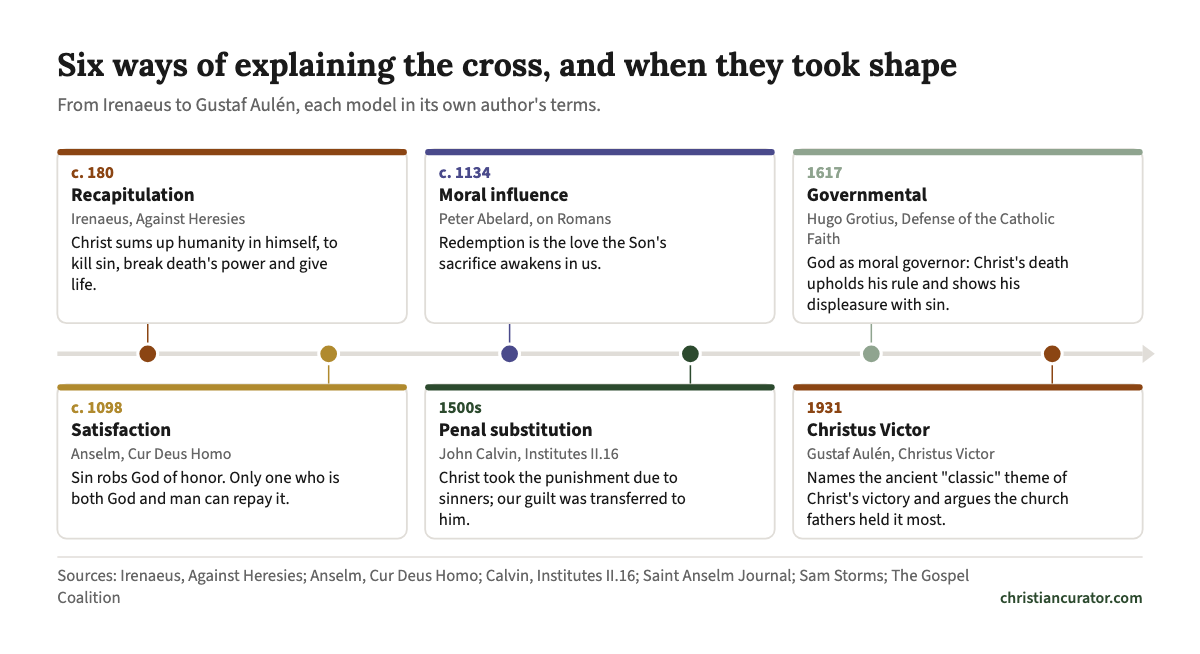
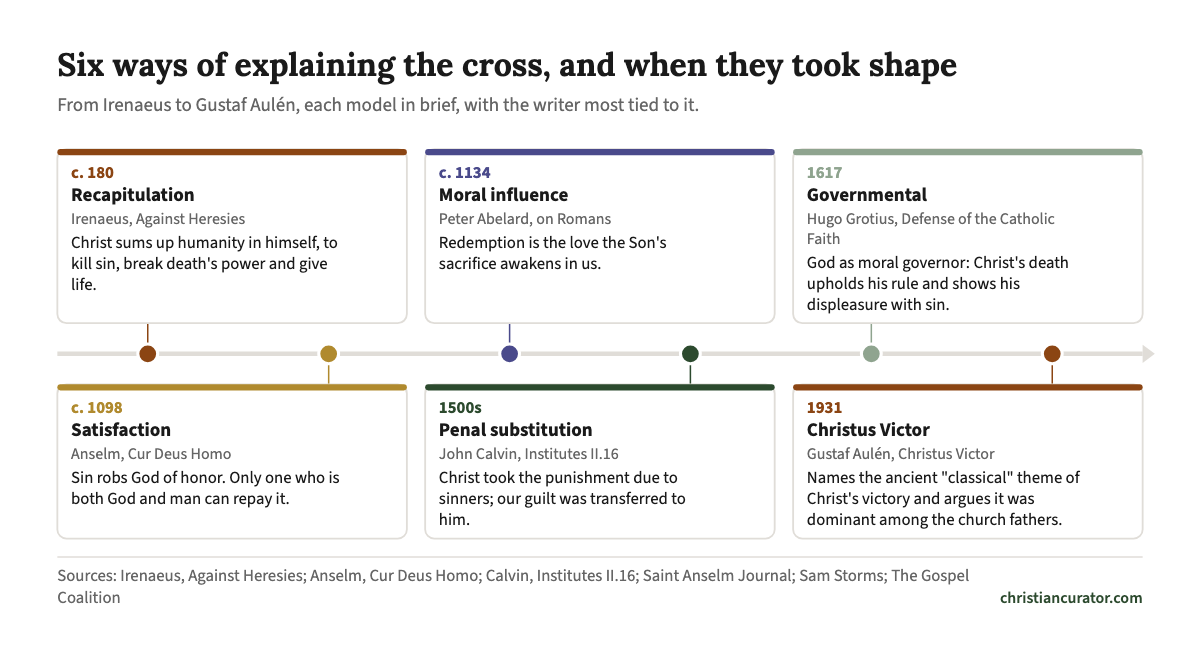
Atonement: match Kolb's wording on Aulén; tighten the span and subtitle
Christus Victor card: Kolb (the cited source) says the "classical" motif
was "dominant among the ancient church fathers"; the card now says so,
instead of "classic" and "held it most". Irenaeus c. 180 to Aulén 1931
is about 1,750 years, so the intro says "nearly 1,800". The share image
subtitle no longer claims every card is in its author's own terms (three
follow secondary summaries). Share image redrawn.

Changed region(s): [[0.6783, 0.7034, 0.8942, 0.8257], [0.3392, 0.1529, 0.5858, 0.1835]]

diff --git a/docs/topics/atonement/index.html b/docs/topics/atonement/index.html
@@ -509,14 +509,14 @@ main.cc-prose { max-width: 740px; margin: 0 auto; padding-top: 1.5rem; }
 <!-- CC-TIMELINE:atonement-models:START -->
 <section class="cc-timeline" id="atonement-models"><style>.cc-timeline{margin:2rem 0;}.cc-timeline-label{font-size:10px;font-weight:700;letter-spacing:0.16em;text-transform:uppercase;color:#8B1A1A;margin-bottom:0.4rem;}.cc-timeline-title{font-family:'Lora',Georgia,serif;font-size:22px;line-height:1.3;color:#1a1a1a;margin-bottom:0.4rem;}.cc-timeline-intro{font-size:15px;line-height:1.6;color:#444;margin-bottom:0.6rem;}.cc-timeline .cc-chart-svg.cc-chart-wide{max-width:740px;}.cc-timeline .cc-chart-svg.cc-chart-narrow{max-width:420px;}.cc-timeline-common{margin:0.8rem 0;padding:0.7rem 0.9rem;background:#eef2ec;border-radius:4px;font-size:14.5px;line-height:1.55;}.cc-timeline-sub{font-size:10px;font-weight:700;letter-spacing:0.14em;text-transform:uppercase;color:#2C4A2E;margin:1rem 0 0.4rem;}.cc-timeline-key ul,.cc-timeline-voices ul{list-style:none;padding:0;margin:0;}.cc-timeline-key li{position:relative;padding:0.3rem 0 0.3rem 1rem;font-size:14.5px;line-height:1.5;}.cc-timeline-key li::before{content:'';position:absolute;left:0;top:0.75rem;width:6px;height:6px;border-radius:50%;background:#8B1A1A;}.cc-timeline-voices li{padding:0.3rem 0;font-size:14px;line-height:1.5;color:#444;}.cc-timeline-swatch{display:inline-block;width:10px;height:10px;border-radius:2px;margin-right:6px;vertical-align:baseline;}.cc-timeline-table th[scope=row]{font-weight:600;}</style>
 <h2 class="cc-timeline-label">A History of the Debate</h2>
-<h3 class="cc-timeline-title">How Christians have explained the cross, century by century</h3><p class="cc-timeline-intro">Today&#x27;s argument over the atonement draws on models that took shape across 1,800 years. Each card gives a model in the words, or close to the words, of the writer most tied to it.</p>
+<h3 class="cc-timeline-title">How Christians have explained the cross, century by century</h3><p class="cc-timeline-intro">Today&#x27;s argument over the atonement draws on models that took shape over nearly 1,800 years. Each card gives a model in the words, or close to the words, of the writer most tied to it.</p>
 <figure class="cc-chart cc-timeline-fig">
-<svg class="cc-chart-svg cc-timeline-svg cc-chart-wide" viewBox="0 0 740 382" role="img" aria-labelledby="atonement-models-t atonement-models-d" font-family="'Source Sans 3', sans-serif"><title id="atonement-models-t">Six ways of explaining the cross, and when they took shape</title><desc id="atonement-models-d">In date order. 1. c. 180: Recapitulation, Irenaeus, Against Heresies. Christ sums up humanity in himself, to kill sin, break death&#x27;s power and give life. 2. c. 1098: Satisfaction, Anselm, Cur Deus Homo. Sin robs God of honor. Only one who is both God and man can repay it. 3. c. 1134: Moral influence, Peter Abelard, on Romans. Redemption is the love the Son&#x27;s sacrifice awakens in us. 4. 1500s: Penal substitution, John Calvin, Institutes II.16. Christ took the punishment due to sinners; our guilt was transferred to him. 5. 1617: Governmental, Hugo Grotius, Defense of the Catholic Faith. God as moral governor: Christ&#x27;s death upholds his rule and shows his displeasure with sin. 6. 1931: Christus Victor, Gustaf Aulén, Christus Victor. Names the ancient &quot;classic&quot; theme of Christ&#x27;s victory and argues the church fathers held it most.</desc><rect width="740" height="382" fill="#fff"/><text x="14.0" y="26.0" font-size="21" fill="#1a1a1a" font-weight="700" font-family="'Lora', Georgia, serif">Six ways of explaining the cross, and when they took shape</text><text x="14.0" y="49.2" font-size="12.5" fill="#666">From Irenaeus to Gustaf Aulén, each model in its own author&#x27;s terms.</text><line x1="14.0" x2="726.0" y1="208.5" y2="208.5" stroke="#e0ddd8" stroke-width="3"/><path d="M726.0,202.5 L734.0,208.5 L726.0,214.5 Z" fill="#e0ddd8"/><line x1="73.3" x2="73.3" y1="188.5" y2="208.5" stroke="#8B4513"/><rect x="14.0" y="74.2" width="229.3" height="114.2" rx="6" fill="#fff" stroke="#e0ddd8" stroke-width="1.2"/><rect x="14.0" y="74.2" width="229.3" height="4" rx="2" fill="#8B4513"/><text x="23.0" y="93.2" font-size="11" fill="#8B4513" font-weight="700">c. 180</text><text x="23.0" y="108.2" font-size="12.5" fill="#1a1a1a" font-weight="700">Recapitulation</text><text x="23.0" y="123.2" font-size="10.5" fill="#666">Irenaeus, Against Heresies</text><text x="23.0" y="139.2" font-size="11" fill="#1a1a1a">Christ sums up humanity in himself, to</text><text x="23.0" y="153.0" font-size="11" fill="#1a1a1a">kill sin, break death&#x27;s power and give</text><text x="23.0" y="166.8" font-size="11" fill="#1a1a1a">life.</text><circle cx="73.3" cy="208.5" r="6.5" fill="#8B4513" stroke="#fff" stroke-width="2"/><line x1="192.0" x2="192.0" y1="208.5" y2="228.5" stroke="#b08a2e"/><rect x="14.0" y="228.5" width="229.3" height="101.2" rx="6" fill="#fff" stroke="#e0ddd8" stroke-width="1.2"/><rect x="14.0" y="228.5" width="229.3" height="4" rx="2" fill="#b08a2e"/><text x="23.0" y="247.5" font-size="11" fill="#b08a2e" font-weight="700">c. 1098</text><text x="23.0" y="262.5" font-size="12.5" fill="#1a1a1a" font-weight="700">Satisfaction</text><text x="23.0" y="277.5" font-size="10.5" fill="#666">Anselm, Cur Deus Homo</text><text x="23.0" y="293.5" font-size="11" fill="#1a1a1a">Sin robs God of honor. Only one who is</text><text x="23.0" y="307.2" font-size="11" fill="#1a1a1a">both God and man can repay it.</text><circle cx="192.0" cy="208.5" r="6.5" fill="#b08a2e" stroke="#fff" stroke-width="2"/><line x1="310.7" x2="310.7" y1="188.5" y2="208.5" stroke="#4A4A8B"/><rect x="255.3" y="74.2" width="229.3" height="114.2" rx="6" fill="#fff" stroke="#e0ddd8" stroke-width="1.2"/><rect x="255.3" y="74.2" width="229.3" height="4" rx="2" fill="#4A4A8B"/><text x="264.3" y="93.2" font-size="11" fill="#4A4A8B" font-weight="700">c. 1134</text><text x="264.3" y="108.2" font-size="12.5" fill="#1a1a1a" font-weight="700">Moral influence</text><text x="264.3" y="123.2" font-size="10.5" fill="#666">Peter Abelard, on Romans</text><text x="264.3" y="139.2" font-size="11" fill="#1a1a1a">Redemption is the love the Son&#x27;s</text><text x="264.3" y="153.0" font-size="11" fill="#1a1a1a">sacrifice awakens in us.</text><circle cx="310.7" cy="208.5" r="6.5" fill="#4A4A8B" stroke="#fff" stroke-width="2"/><line x1="429.3" x2="429.3" y1="208.5" y2="228.5" stroke="#2C4A2E"/><rect x="255.3" y="228.5" width="229.3" height="101.2" rx="6" fill="#fff" stroke="#e0ddd8" stroke-width="1.2"/><rect x="255.3" y="228.5" width="229.3" height="4" rx="2" fill="#2C4A2E"/><text x="264.3" y="247.5" font-size="11" fill="#2C4A2E" font-weight="700">1500s</text><text x="264.3" y="262.5" font-size="12.5" fill="#1a1a1a" font-weight="700">Penal substitution</text><text x="264.3" y="277.5" font-size="10.5" fill="#666">John Calvin, Institutes II.16</text><text x="264.3" y="293.5" font-size="11" fill="#1a1a1a">Christ took the punishment due to</text><text x="264.3" y="307.2" font-size="11" fill="#1a1a1a">sinners; our guilt was transferred to</text><text x="264.3" y="321.0" font-size="11" fill="#1a1a1a">him.</text><circle cx="429.3" cy="208.5" r="6.5" fill="#2C4A2E" stroke="#fff" stroke-width="2"/><line x1="548.0" x2="548.0" y1="188.5" y2="208.5" stroke="#8fa48f"/><rect x="496.7" y="74.2" width="229.3" height="114.2" rx="6" fill="#fff" stroke="#e0ddd8" stroke-width="1.2"/><rect x="496.7" y="74.2" width="229.3" height="4" rx="2" fill="#8fa48f"/><text x="505.7" y="93.2" font-size="11" fill="#8fa48f" font-weight="700">1617</text><text x="505.7" y="108.2" font-size="12.5" fill="#1a1a1a" font-weight="700">Governmental</text><text x="505.7" y="123.2" font-size="10.5" fill="#666">Hugo Grotius, Defense of the Catholic</text><text x="505.7" y="136.2" font-size="10.5" fill="#666">Faith</text><text x="505.7" y="152.2" font-size="11" fill="#1a1a1a">God as moral governor: Christ&#x27;s death</text><text x="505.7" y="166.0" font-size="11" fill="#1a1a1a">upholds his rule and shows his</text><text x="505.7" y="179.8" font-size="11" fill="#1a1a1a">displeasure with sin.</text><circle cx="548.0" cy="208.5" r="6.5" fill="#8fa48f" stroke="#fff" stroke-width="2"/><line x1="666.7" x2="666.7" y1="208.5" y2="228.5" stroke="#8B4513"/><rect x="496.7" y="228.5" width="229.3" height="101.2" rx="6" fill="#fff" stroke="#e0ddd8" stroke-width="1.2"/><rect x="496.7" y="228.5" width="229.3" height="4" rx="2" fill="#8B4513"/><text x="505.7" y="247.5" font-size="11" fill="#8B4513" font-weight="700">1931</text><text x="505.7" y="262.5" font-size="12.5" fill="#1a1a1a" font-weight="700">Christus Victor</text><text x="505.7" y="277.5" font-size="10.5" fill="#666">Gustaf Aulén, Christus Victor</text><text x="505.7" y="293.5" font-size="11" fill="#1a1a1a">Names the ancient &quot;classic&quot; theme of</text><text x="505.7" y="307.2" font-size="11" fill="#1a1a1a">Christ&#x27;s victory and argues the church</text><text x="505.7" y="321.0" font-size="11" fill="#1a1a1a">fathers held it most.</text><circle cx="666.7" cy="208.5" r="6.5" fill="#8B4513" stroke="#fff" stroke-width="2"/><line x1="14" x2="726" y1="341.8" y2="341.8" stroke="#e0ddd8"/><text x="14.0" y="357.8" font-size="11" fill="#666">Sources: Irenaeus, Against Heresies; Anselm, Cur Deus Homo; Calvin, Institutes II.16; Saint Anselm Journal; Sam Storms; The Gospel</text><text x="14.0" y="371.8" font-size="11" fill="#666">Coalition</text><text x="726.0" y="371.8" font-size="10.5" fill="#2C4A2E" font-weight="600" text-anchor="end">christiancurator.com</text></svg>
-<svg class="cc-chart-svg cc-timeline-svg cc-chart-narrow" viewBox="0 0 360 750" role="img" aria-labelledby="atonement-models-n-t atonement-models-n-d" font-family="'Source Sans 3', sans-serif"><title id="atonement-models-n-t">Six ways of explaining the cross, and when they took shape</title><desc id="atonement-models-n-d">In date order. 1. c. 180: Recapitulation, Irenaeus, Against Heresies. Christ sums up humanity in himself, to kill sin, break death&#x27;s power and give life. 2. c. 1098: Satisfaction, Anselm, Cur Deus Homo. Sin robs God of honor. Only one who is both God and man can repay it. 3. c. 1134: Moral influence, Peter Abelard, on Romans. Redemption is the love the Son&#x27;s sacrifice awakens in us. 4. 1500s: Penal substitution, John Calvin, Institutes II.16. Christ took the punishment due to sinners; our guilt was transferred to him. 5. 1617: Governmental, Hugo Grotius, Defense of the Catholic Faith. God as moral governor: Christ&#x27;s death upholds his rule and shows his displeasure with sin. 6. 1931: Christus Victor, Gustaf Aulén, Christus Victor. Names the ancient &quot;classic&quot; theme of Christ&#x27;s victory and argues the church fathers held it most.</desc><rect width="360" height="750" fill="#fff"/><text x="14.0" y="26.0" font-size="19" fill="#1a1a1a" font-weight="700" font-family="'Lora', Georgia, serif">Six ways of explaining the cross,</text><text x="14.0" y="49.8" font-size="19" fill="#1a1a1a" font-weight="700" font-family="'Lora', Georgia, serif">and when they took shape</text><text x="14.0" y="70.5" font-size="12.5" fill="#666">Each model in its own author&#x27;s terms.</text><line x1="22.0" x2="22.0" y1="105.5" y2="646.8" stroke="#e0ddd8" stroke-width="3"/><line x1="22.0" x2="38.0" y1="114.5" y2="114.5" stroke="#8B4513"/><circle cx="22.0" cy="114.5" r="6.5" fill="#8B4513" stroke="#fff" stroke-width="2"/><rect x="38.0" y="95.5" width="308.0" height="87.5" rx="6" fill="#fff" stroke="#e0ddd8" stroke-width="1.2"/><rect x="38.0" y="95.5" width="308.0" height="4" rx="2" fill="#8B4513"/><text x="47.0" y="114.5" font-size="11" fill="#8B4513" font-weight="700">c. 180</text><text x="47.0" y="129.5" font-size="12.5" fill="#1a1a1a" font-weight="700">Recapitulation</text><text x="47.0" y="144.5" font-size="10.5" fill="#666">Irenaeus, Against Heresies</text><text x="47.0" y="160.5" font-size="11" fill="#1a1a1a">Christ sums up humanity in himself, to undo sin and</text><text x="47.0" y="174.2" font-size="11" fill="#1a1a1a">death.</text><line x1="22.0" x2="38.0" y1="212.0" y2="212.0" stroke="#b08a2e"/><circle cx="22.0" cy="212.0" r="6.5" fill="#b08a2e" stroke="#fff" stroke-width="2"/><rect x="38.0" y="193.0" width="308.0" height="87.5" rx="6" fill="#fff" stroke="#e0ddd8" stroke-width="1.2"/><rect x="38.0" y="193.0" width="308.0" height="4" rx="2" fill="#b08a2e"/><text x="47.0" y="212.0" font-size="11" fill="#b08a2e" font-weight="700">c. 1098</text><text x="47.0" y="227.0" font-size="12.5" fill="#1a1a1a" font-weight="700">Satisfaction</text><text x="47.0" y="242.0" font-size="10.5" fill="#666">Anselm, Cur Deus Homo</text><text x="47.0" y="258.0" font-size="11" fill="#1a1a1a">Sin robs God of honor. Only one who is both God and</text><text x="47.0" y="271.8" font-size="11" fill="#1a1a1a">man can repay it.</text><line x1="22.0" x2="38.0" y1="309.5" y2="309.5" stroke="#4A4A8B"/><circle cx="22.0" cy="309.5" r="6.5" fill="#4A4A8B" stroke="#fff" stroke-width="2"/><rect x="38.0" y="290.5" width="308.0" height="87.5" rx="6" fill="#fff" stroke="#e0ddd8" stroke-width="1.2"/><rect x="38.0" y="290.5" width="308.0" height="4" rx="2" fill="#4A4A8B"/><text x="47.0" y="309.5" font-size="11" fill="#4A4A8B" font-weight="700">c. 1134</text><text x="47.0" y="324.5" font-size="12.5" fill="#1a1a1a" font-weight="700">Moral influence</text><text x="47.0" y="339.5" font-size="10.5" fill="#666">Peter Abelard, on Romans</text><text x="47.0" y="355.5" font-size="11" fill="#1a1a1a">Redemption is the love the Son&#x27;s sacrifice awakens in</text><text x="47.0" y="369.2" font-size="11" fill="#1a1a1a">us.</text><line x1="22.0" x2="38.0" y1="407.0" y2="407.0" stroke="#2C4A2E"/><circle cx="22.0" cy="407.0" r="6.5" fill="#2C4A2E" stroke="#fff" stroke-width="2"/><rect x="38.0" y="388.0" width="308.0" height="87.5" rx="6" fill="#fff" stroke="#e0ddd8" stroke-width="1.2"/><rect x="38.0" y="388.0" width="308.0" height="4" rx="2" fill="#2C4A2E"/><text x="47.0" y="407.0" font-size="11" fill="#2C4A2E" font-weight="700">1500s</text><text x="47.0" y="422.0" font-size="12.5" fill="#1a1a1a" font-weight="700">Penal substitution</text><text x="47.0" y="437.0" font-size="10.5" fill="#666">John Calvin, Institutes II.16</text><text x="47.0" y="453.0" font-size="11" fill="#1a1a1a">Christ took the punishment due to sinners; our guilt</text><text x="47.0" y="466.8" font-size="11" fill="#1a1a1a">was transferred to him.</text><line x1="22.0" x2="38.0" y1="504.5" y2="504.5" stroke="#8fa48f"/><circle cx="22.0" cy="504.5" r="6.5" fill="#8fa48f" stroke="#fff" stroke-width="2"/><rect x="38.0" y="485.5" width="308.0" height="73.8" rx="6" fill="#fff" stroke="#e0ddd8" stroke-width="1.2"/><rect x="38.0" y="485.5" width="308.0" height="4" rx="2" fill="#8fa48f"/><text x="47.0" y="504.5" font-size="11" fill="#8fa48f" font-weight="700">1617</text><text x="47.0" y="519.5" font-size="12.5" fill="#1a1a1a" font-weight="700">Governmental</text><text x="47.0" y="534.5" font-size="10.5" fill="#666">Hugo Grotius, Defense of the Catholic Faith</text><text x="47.0" y="550.5" font-size="11" fill="#1a1a1a">Christ&#x27;s death upholds God&#x27;s moral government.</text><line x1="22.0" x2="38.0" y1="588.2" y2="588.2" stroke="#8B4513"/><circle cx="22.0" cy="588.2" r="6.5" fill="#8B4513" stroke="#fff" stroke-width="2"/><rect x="38.0" y="569.2" width="308.0" height="87.5" rx="6" fill="#fff" stroke="#e0ddd8" stroke-width="1.2"/><rect x="38.0" y="569.2" width="308.0" height="4" rx="2" fill="#8B4513"/><text x="47.0" y="588.2" font-size="11" fill="#8B4513" font-weight="700">1931</text><text x="47.0" y="603.2" font-size="12.5" fill="#1a1a1a" font-weight="700">Christus Victor</text><text x="47.0" y="618.2" font-size="10.5" fill="#666">Gustaf Aulén, Christus Victor</text><text x="47.0" y="634.2" font-size="11" fill="#1a1a1a">Revives the fathers&#x27; &quot;classic&quot; theme of Christ&#x27;s</text><text x="47.0" y="648.0" font-size="11" fill="#1a1a1a">victory.</text><line x1="14" x2="346" y1="678.8" y2="678.8" stroke="#e0ddd8"/><text x="14.0" y="694.8" font-size="11" fill="#666">Sources: Irenaeus, Against Heresies; Anselm, Cur Deus Homo;</text><text x="14.0" y="708.8" font-size="11" fill="#666">Calvin, Institutes II.16; Saint Anselm Journal; Sam Storms;</text><text x="14.0" y="722.8" font-size="11" fill="#666">The Gospel Coalition</text><text x="346.0" y="739.8" font-size="10.5" fill="#2C4A2E" font-weight="600" text-anchor="end">christiancurator.com</text></svg>
+<svg class="cc-chart-svg cc-timeline-svg cc-chart-wide" viewBox="0 0 740 382" role="img" aria-labelledby="atonement-models-t atonement-models-d" font-family="'Source Sans 3', sans-serif"><title id="atonement-models-t">Six ways of explaining the cross, and when they took shape</title><desc id="atonement-models-d">In date order. 1. c. 180: Recapitulation, Irenaeus, Against Heresies. Christ sums up humanity in himself, to kill sin, break death&#x27;s power and give life. 2. c. 1098: Satisfaction, Anselm, Cur Deus Homo. Sin robs God of honor. Only one who is both God and man can repay it. 3. c. 1134: Moral influence, Peter Abelard, on Romans. Redemption is the love the Son&#x27;s sacrifice awakens in us. 4. 1500s: Penal substitution, John Calvin, Institutes II.16. Christ took the punishment due to sinners; our guilt was transferred to him. 5. 1617: Governmental, Hugo Grotius, Defense of the Catholic Faith. God as moral governor: Christ&#x27;s death upholds his rule and shows his displeasure with sin. 6. 1931: Christus Victor, Gustaf Aulén, Christus Victor. Names the ancient &quot;classical&quot; theme of Christ&#x27;s victory and argues it was dominant among the church fathers.</desc><rect width="740" height="382" fill="#fff"/><text x="14.0" y="26.0" font-size="21" fill="#1a1a1a" font-weight="700" font-family="'Lora', Georgia, serif">Six ways of explaining the cross, and when they took shape</text><text x="14.0" y="49.2" font-size="12.5" fill="#666">From Irenaeus to Gustaf Aulén, each model in brief, with the writer most tied to it.</text><line x1="14.0" x2="726.0" y1="208.5" y2="208.5" stroke="#e0ddd8" stroke-width="3"/><path d="M726.0,202.5 L734.0,208.5 L726.0,214.5 Z" fill="#e0ddd8"/><line x1="73.3" x2="73.3" y1="188.5" y2="208.5" stroke="#8B4513"/><rect x="14.0" y="74.2" width="229.3" height="114.2" rx="6" fill="#fff" stroke="#e0ddd8" stroke-width="1.2"/><rect x="14.0" y="74.2" width="229.3" height="4" rx="2" fill="#8B4513"/><text x="23.0" y="93.2" font-size="11" fill="#8B4513" font-weight="700">c. 180</text><text x="23.0" y="108.2" font-size="12.5" fill="#1a1a1a" font-weight="700">Recapitulation</text><text x="23.0" y="123.2" font-size="10.5" fill="#666">Irenaeus, Against Heresies</text><text x="23.0" y="139.2" font-size="11" fill="#1a1a1a">Christ sums up humanity in himself, to</text><text x="23.0" y="153.0" font-size="11" fill="#1a1a1a">kill sin, break death&#x27;s power and give</text><text x="23.0" y="166.8" font-size="11" fill="#1a1a1a">life.</text><circle cx="73.3" cy="208.5" r="6.5" fill="#8B4513" stroke="#fff" stroke-width="2"/><line x1="192.0" x2="192.0" y1="208.5" y2="228.5" stroke="#b08a2e"/><rect x="14.0" y="228.5" width="229.3" height="101.2" rx="6" fill="#fff" stroke="#e0ddd8" stroke-width="1.2"/><rect x="14.0" y="228.5" width="229.3" height="4" rx="2" fill="#b08a2e"/><text x="23.0" y="247.5" font-size="11" fill="#b08a2e" font-weight="700">c. 1098</text><text x="23.0" y="262.5" font-size="12.5" fill="#1a1a1a" font-weight="700">Satisfaction</text><text x="23.0" y="277.5" font-size="10.5" fill="#666">Anselm, Cur Deus Homo</text><text x="23.0" y="293.5" font-size="11" fill="#1a1a1a">Sin robs God of honor. Only one who is</text><text x="23.0" y="307.2" font-size="11" fill="#1a1a1a">both God and man can repay it.</text><circle cx="192.0" cy="208.5" r="6.5" fill="#b08a2e" stroke="#fff" stroke-width="2"/><line x1="310.7" x2="310.7" y1="188.5" y2="208.5" stroke="#4A4A8B"/><rect x="255.3" y="74.2" width="229.3" height="114.2" rx="6" fill="#fff" stroke="#e0ddd8" stroke-width="1.2"/><rect x="255.3" y="74.2" width="229.3" height="4" rx="2" fill="#4A4A8B"/><text x="264.3" y="93.2" font-size="11" fill="#4A4A8B" font-weight="700">c. 1134</text><text x="264.3" y="108.2" font-size="12.5" fill="#1a1a1a" font-weight="700">Moral influence</text><text x="264.3" y="123.2" font-size="10.5" fill="#666">Peter Abelard, on Romans</text><text x="264.3" y="139.2" font-size="11" fill="#1a1a1a">Redemption is the love the Son&#x27;s</text><text x="264.3" y="153.0" font-size="11" fill="#1a1a1a">sacrifice awakens in us.</text><circle cx="310.7" cy="208.5" r="6.5" fill="#4A4A8B" stroke="#fff" stroke-width="2"/><line x1="429.3" x2="429.3" y1="208.5" y2="228.5" stroke="#2C4A2E"/><rect x="255.3" y="228.5" width="229.3" height="101.2" rx="6" fill="#fff" stroke="#e0ddd8" stroke-width="1.2"/><rect x="255.3" y="228.5" width="229.3" height="4" rx="2" fill="#2C4A2E"/><text x="264.3" y="247.5" font-size="11" fill="#2C4A2E" font-weight="700">1500s</text><text x="264.3" y="262.5" font-size="12.5" fill="#1a1a1a" font-weight="700">Penal substitution</text><text x="264.3" y="277.5" font-size="10.5" fill="#666">John Calvin, Institutes II.16</text><text x="264.3" y="293.5" font-size="11" fill="#1a1a1a">Christ took the punishment due to</text><text x="264.3" y="307.2" font-size="11" fill="#1a1a1a">sinners; our guilt was transferred to</text><text x="264.3" y="321.0" font-size="11" fill="#1a1a1a">him.</text><circle cx="429.3" cy="208.5" r="6.5" fill="#2C4A2E" stroke="#fff" stroke-width="2"/><line x1="548.0" x2="548.0" y1="188.5" y2="208.5" stroke="#8fa48f"/><rect x="496.7" y="74.2" width="229.3" height="114.2" rx="6" fill="#fff" stroke="#e0ddd8" stroke-width="1.2"/><rect x="496.7" y="74.2" width="229.3" height="4" rx="2" fill="#8fa48f"/><text x="505.7" y="93.2" font-size="11" fill="#8fa48f" font-weight="700">1617</text><text x="505.7" y="108.2" font-size="12.5" fill="#1a1a1a" font-weight="700">Governmental</text><text x="505.7" y="123.2" font-size="10.5" fill="#666">Hugo Grotius, Defense of the Catholic</text><text x="505.7" y="136.2" font-size="10.5" fill="#666">Faith</text><text x="505.7" y="152.2" font-size="11" fill="#1a1a1a">God as moral governor: Christ&#x27;s death</text><text x="505.7" y="166.0" font-size="11" fill="#1a1a1a">upholds his rule and shows his</text><text x="505.7" y="179.8" font-size="11" fill="#1a1a1a">displeasure with sin.</text><circle cx="548.0" cy="208.5" r="6.5" fill="#8fa48f" stroke="#fff" stroke-width="2"/><line x1="666.7" x2="666.7" y1="208.5" y2="228.5" stroke="#8B4513"/><rect x="496.7" y="228.5" width="229.3" height="101.2" rx="6" fill="#fff" stroke="#e0ddd8" stroke-width="1.2"/><rect x="496.7" y="228.5" width="229.3" height="4" rx="2" fill="#8B4513"/><text x="505.7" y="247.5" font-size="11" fill="#8B4513" font-weight="700">1931</text><text x="505.7" y="262.5" font-size="12.5" fill="#1a1a1a" font-weight="700">Christus Victor</text><text x="505.7" y="277.5" font-size="10.5" fill="#666">Gustaf Aulén, Christus Victor</text><text x="505.7" y="293.5" font-size="11" fill="#1a1a1a">Names the ancient &quot;classical&quot; theme of</text><text x="505.7" y="307.2" font-size="11" fill="#1a1a1a">Christ&#x27;s victory and argues it was</text><text x="505.7" y="321.0" font-size="11" fill="#1a1a1a">dominant among the church fathers.</text><circle cx="666.7" cy="208.5" r="6.5" fill="#8B4513" stroke="#fff" stroke-width="2"/><line x1="14" x2="726" y1="341.8" y2="341.8" stroke="#e0ddd8"/><text x="14.0" y="357.8" font-size="11" fill="#666">Sources: Irenaeus, Against Heresies; Anselm, Cur Deus Homo; Calvin, Institutes II.16; Saint Anselm Journal; Sam Storms; The Gospel</text><text x="14.0" y="371.8" font-size="11" fill="#666">Coalition</text><text x="726.0" y="371.8" font-size="10.5" fill="#2C4A2E" font-weight="600" text-anchor="end">christiancurator.com</text></svg>
+<svg class="cc-chart-svg cc-timeline-svg cc-chart-narrow" viewBox="0 0 360 750" role="img" aria-labelledby="atonement-models-n-t atonement-models-n-d" font-family="'Source Sans 3', sans-serif"><title id="atonement-models-n-t">Six ways of explaining the cross, and when they took shape</title><desc id="atonement-models-n-d">In date order. 1. c. 180: Recapitulation, Irenaeus, Against Heresies. Christ sums up humanity in himself, to kill sin, break death&#x27;s power and give life. 2. c. 1098: Satisfaction, Anselm, Cur Deus Homo. Sin robs God of honor. Only one who is both God and man can repay it. 3. c. 1134: Moral influence, Peter Abelard, on Romans. Redemption is the love the Son&#x27;s sacrifice awakens in us. 4. 1500s: Penal substitution, John Calvin, Institutes II.16. Christ took the punishment due to sinners; our guilt was transferred to him. 5. 1617: Governmental, Hugo Grotius, Defense of the Catholic Faith. God as moral governor: Christ&#x27;s death upholds his rule and shows his displeasure with sin. 6. 1931: Christus Victor, Gustaf Aulén, Christus Victor. Names the ancient &quot;classical&quot; theme of Christ&#x27;s victory and argues it was dominant among the church fathers.</desc><rect width="360" height="750" fill="#fff"/><text x="14.0" y="26.0" font-size="19" fill="#1a1a1a" font-weight="700" font-family="'Lora', Georgia, serif">Six ways of explaining the cross,</text><text x="14.0" y="49.8" font-size="19" fill="#1a1a1a" font-weight="700" font-family="'Lora', Georgia, serif">and when they took shape</text><text x="14.0" y="70.5" font-size="12.5" fill="#666">Each model in brief.</text><line x1="22.0" x2="22.0" y1="105.5" y2="646.8" stroke="#e0ddd8" stroke-width="3"/><line x1="22.0" x2="38.0" y1="114.5" y2="114.5" stroke="#8B4513"/><circle cx="22.0" cy="114.5" r="6.5" fill="#8B4513" stroke="#fff" stroke-width="2"/><rect x="38.0" y="95.5" width="308.0" height="87.5" rx="6" fill="#fff" stroke="#e0ddd8" stroke-width="1.2"/><rect x="38.0" y="95.5" width="308.0" height="4" rx="2" fill="#8B4513"/><text x="47.0" y="114.5" font-size="11" fill="#8B4513" font-weight="700">c. 180</text><text x="47.0" y="129.5" font-size="12.5" fill="#1a1a1a" font-weight="700">Recapitulation</text><text x="47.0" y="144.5" font-size="10.5" fill="#666">Irenaeus, Against Heresies</text><text x="47.0" y="160.5" font-size="11" fill="#1a1a1a">Christ sums up humanity in himself, to undo sin and</text><text x="47.0" y="174.2" font-size="11" fill="#1a1a1a">death.</text><line x1="22.0" x2="38.0" y1="212.0" y2="212.0" stroke="#b08a2e"/><circle cx="22.0" cy="212.0" r="6.5" fill="#b08a2e" stroke="#fff" stroke-width="2"/><rect x="38.0" y="193.0" width="308.0" height="87.5" rx="6" fill="#fff" stroke="#e0ddd8" stroke-width="1.2"/><rect x="38.0" y="193.0" width="308.0" height="4" rx="2" fill="#b08a2e"/><text x="47.0" y="212.0" font-size="11" fill="#b08a2e" font-weight="700">c. 1098</text><text x="47.0" y="227.0" font-size="12.5" fill="#1a1a1a" font-weight="700">Satisfaction</text><text x="47.0" y="242.0" font-size="10.5" fill="#666">Anselm, Cur Deus Homo</text><text x="47.0" y="258.0" font-size="11" fill="#1a1a1a">Sin robs God of honor. Only one who is both God and</text><text x="47.0" y="271.8" font-size="11" fill="#1a1a1a">man can repay it.</text><line x1="22.0" x2="38.0" y1="309.5" y2="309.5" stroke="#4A4A8B"/><circle cx="22.0" cy="309.5" r="6.5" fill="#4A4A8B" stroke="#fff" stroke-width="2"/><rect x="38.0" y="290.5" width="308.0" height="87.5" rx="6" fill="#fff" stroke="#e0ddd8" stroke-width="1.2"/><rect x="38.0" y="290.5" width="308.0" height="4" rx="2" fill="#4A4A8B"/><text x="47.0" y="309.5" font-size="11" fill="#4A4A8B" font-weight="700">c. 1134</text><text x="47.0" y="324.5" font-size="12.5" fill="#1a1a1a" font-weight="700">Moral influence</text><text x="47.0" y="339.5" font-size="10.5" fill="#666">Peter Abelard, on Romans</text><text x="47.0" y="355.5" font-size="11" fill="#1a1a1a">Redemption is the love the Son&#x27;s sacrifice awakens in</text><text x="47.0" y="369.2" font-size="11" fill="#1a1a1a">us.</text><line x1="22.0" x2="38.0" y1="407.0" y2="407.0" stroke="#2C4A2E"/><circle cx="22.0" cy="407.0" r="6.5" fill="#2C4A2E" stroke="#fff" stroke-width="2"/><rect x="38.0" y="388.0" width="308.0" height="87.5" rx="6" fill="#fff" stroke="#e0ddd8" stroke-width="1.2"/><rect x="38.0" y="388.0" width="308.0" height="4" rx="2" fill="#2C4A2E"/><text x="47.0" y="407.0" font-size="11" fill="#2C4A2E" font-weight="700">1500s</text><text x="47.0" y="422.0" font-size="12.5" fill="#1a1a1a" font-weight="700">Penal substitution</text><text x="47.0" y="437.0" font-size="10.5" fill="#666">John Calvin, Institutes II.16</text><text x="47.0" y="453.0" font-size="11" fill="#1a1a1a">Christ took the punishment due to sinners; our guilt</text><text x="47.0" y="466.8" font-size="11" fill="#1a1a1a">was transferred to him.</text><line x1="22.0" x2="38.0" y1="504.5" y2="504.5" stroke="#8fa48f"/><circle cx="22.0" cy="504.5" r="6.5" fill="#8fa48f" stroke="#fff" stroke-width="2"/><rect x="38.0" y="485.5" width="308.0" height="73.8" rx="6" fill="#fff" stroke="#e0ddd8" stroke-width="1.2"/><rect x="38.0" y="485.5" width="308.0" height="4" rx="2" fill="#8fa48f"/><text x="47.0" y="504.5" font-size="11" fill="#8fa48f" font-weight="700">1617</text><text x="47.0" y="519.5" font-size="12.5" fill="#1a1a1a" font-weight="700">Governmental</text><text x="47.0" y="534.5" font-size="10.5" fill="#666">Hugo Grotius, Defense of the Catholic Faith</text><text x="47.0" y="550.5" font-size="11" fill="#1a1a1a">Christ&#x27;s death upholds God&#x27;s moral government.</text><line x1="22.0" x2="38.0" y1="588.2" y2="588.2" stroke="#8B4513"/><circle cx="22.0" cy="588.2" r="6.5" fill="#8B4513" stroke="#fff" stroke-width="2"/><rect x="38.0" y="569.2" width="308.0" height="87.5" rx="6" fill="#fff" stroke="#e0ddd8" stroke-width="1.2"/><rect x="38.0" y="569.2" width="308.0" height="4" rx="2" fill="#8B4513"/><text x="47.0" y="588.2" font-size="11" fill="#8B4513" font-weight="700">1931</text><text x="47.0" y="603.2" font-size="12.5" fill="#1a1a1a" font-weight="700">Christus Victor</text><text x="47.0" y="618.2" font-size="10.5" fill="#666">Gustaf Aulén, Christus Victor</text><text x="47.0" y="634.2" font-size="11" fill="#1a1a1a">Revives the fathers&#x27; &quot;classical&quot; theme of Christ&#x27;s</text><text x="47.0" y="648.0" font-size="11" fill="#1a1a1a">victory.</text><line x1="14" x2="346" y1="678.8" y2="678.8" stroke="#e0ddd8"/><text x="14.0" y="694.8" font-size="11" fill="#666">Sources: Irenaeus, Against Heresies; Anselm, Cur Deus Homo;</text><text x="14.0" y="708.8" font-size="11" fill="#666">Calvin, Institutes II.16; Saint Anselm Journal; Sam Storms;</text><text x="14.0" y="722.8" font-size="11" fill="#666">The Gospel Coalition</text><text x="346.0" y="739.8" font-size="10.5" fill="#2C4A2E" font-weight="600" text-anchor="end">christiancurator.com</text></svg>
 <figcaption>The models are not always rivals. Many writers hold several together, and the debate is often over which one sits at the center.</figcaption>
 <p class="cc-timeline-common"><strong>Common ground.</strong> Every model starts from the same events, Christ&#x27;s death and resurrection for sinners. Evangelical statements such as The Gospel Coalition&#x27;s confess penal substitution, and many evangelicals also teach Christ&#x27;s victory and example. (<a href="https://www.thegospelcoalition.org/about/foundation-documents/" target="_blank" rel="noopener" data-pos="topic-timeline">The Gospel Coalition</a>)</p>
-<div class="cc-timeline-key"><div class="cc-timeline-sub">Where they differ</div><ul><li>What the problem is: death and the devil, God&#x27;s offended honor, our cold hearts, or the guilt and penalty of sin.</li><li>Whom the cross acts on: on the powers holding humanity, on God&#x27;s justice, or on us, by moving us to love.</li><li>Penal substitution says Christ bore in full the penalty sinners owed; on the governmental view, God accepted Christ&#x27;s sufferings in place of our punishment, to uphold his rule and deter sin.</li><li>Aulén took Irenaeus as his prime example and saw Luther reviving the theme; Robert Kolb, writing for The Gospel Coalition, calls that reading somewhat over simplified.</li></ul></div>
-<details class="cc-chart-data"><summary>Table version</summary><div class="cc-chart-scroll"><table class="cc-timeline-table cc-chart-stack"><caption>Six ways of explaining the cross, and when they took shape</caption><thead><tr><th scope="col">When</th><th scope="col">Model</th><th scope="col">Who and where</th><th scope="col">In short</th></tr></thead><tbody><tr><th scope="row">c. 180</th><td data-label="Model">Recapitulation</td><td data-label="Who and where">Irenaeus, Against Heresies</td><td data-label="In short">Christ sums up humanity in himself, to kill sin, break death&#x27;s power and give life.</td></tr><tr><th scope="row">c. 1098</th><td data-label="Model">Satisfaction</td><td data-label="Who and where">Anselm, Cur Deus Homo</td><td data-label="In short">Sin robs God of honor. Only one who is both God and man can repay it.</td></tr><tr><th scope="row">c. 1134</th><td data-label="Model">Moral influence</td><td data-label="Who and where">Peter Abelard, on Romans</td><td data-label="In short">Redemption is the love the Son&#x27;s sacrifice awakens in us.</td></tr><tr><th scope="row">1500s</th><td data-label="Model">Penal substitution</td><td data-label="Who and where">John Calvin, Institutes II.16</td><td data-label="In short">Christ took the punishment due to sinners; our guilt was transferred to him.</td></tr><tr><th scope="row">1617</th><td data-label="Model">Governmental</td><td data-label="Who and where">Hugo Grotius, Defense of the Catholic Faith</td><td data-label="In short">God as moral governor: Christ&#x27;s death upholds his rule and shows his displeasure with sin.</td></tr><tr><th scope="row">1931</th><td data-label="Model">Christus Victor</td><td data-label="Who and where">Gustaf Aulén, Christus Victor</td><td data-label="In short">Names the ancient &quot;classic&quot; theme of Christ&#x27;s victory and argues the church fathers held it most.</td></tr></tbody></table></div></details>
+<div class="cc-timeline-key"><div class="cc-timeline-sub">Where they differ</div><ul><li>What the problem is: death and the devil, God&#x27;s offended honor, our cold hearts, or the guilt and penalty of sin.</li><li>Whom the cross acts on: on the powers holding humanity, on God&#x27;s justice, or on us, by moving us to love.</li><li>Penal substitution says Christ bore in full the penalty sinners owed; on the governmental view, God accepted Christ&#x27;s sufferings in place of our punishment, to uphold his rule and deter sin.</li><li>Aulén took Irenaeus as his prime example and saw Luther reviving the theme; Robert Kolb, writing for The Gospel Coalition, calls that reading somewhat oversimplified.</li></ul></div>
+<details class="cc-chart-data"><summary>Table version</summary><div class="cc-chart-scroll"><table class="cc-timeline-table cc-chart-stack"><caption>Six ways of explaining the cross, and when they took shape</caption><thead><tr><th scope="col">When</th><th scope="col">Model</th><th scope="col">Who and where</th><th scope="col">In short</th></tr></thead><tbody><tr><th scope="row">c. 180</th><td data-label="Model">Recapitulation</td><td data-label="Who and where">Irenaeus, Against Heresies</td><td data-label="In short">Christ sums up humanity in himself, to kill sin, break death&#x27;s power and give life.</td></tr><tr><th scope="row">c. 1098</th><td data-label="Model">Satisfaction</td><td data-label="Who and where">Anselm, Cur Deus Homo</td><td data-label="In short">Sin robs God of honor. Only one who is both God and man can repay it.</td></tr><tr><th scope="row">c. 1134</th><td data-label="Model">Moral influence</td><td data-label="Who and where">Peter Abelard, on Romans</td><td data-label="In short">Redemption is the love the Son&#x27;s sacrifice awakens in us.</td></tr><tr><th scope="row">1500s</th><td data-label="Model">Penal substitution</td><td data-label="Who and where">John Calvin, Institutes II.16</td><td data-label="In short">Christ took the punishment due to sinners; our guilt was transferred to him.</td></tr><tr><th scope="row">1617</th><td data-label="Model">Governmental</td><td data-label="Who and where">Hugo Grotius, Defense of the Catholic Faith</td><td data-label="In short">God as moral governor: Christ&#x27;s death upholds his rule and shows his displeasure with sin.</td></tr><tr><th scope="row">1931</th><td data-label="Model">Christus Victor</td><td data-label="Who and where">Gustaf Aulén, Christus Victor</td><td data-label="In short">Names the ancient &quot;classical&quot; theme of Christ&#x27;s victory and argues it was dominant among the church fathers.</td></tr></tbody></table></div></details>
 <div class="cc-timeline-voices"><div class="cc-timeline-sub">The writer behind each model</div><ul><li><span class="cc-timeline-swatch" style="background:#8B4513"></span><strong>Recapitulation:</strong> Irenaeus of Lyons, New Advent (Ante-Nicene Fathers, Vol. 1, 1885), <a href="https://www.newadvent.org/fathers/0103318.htm" target="_blank" rel="noopener" data-pos="topic-timeline">Against Heresies, Book III, Chapter 18</a></li><li><span class="cc-timeline-swatch" style="background:#b08a2e"></span><strong>Satisfaction:</strong> Anselm of Canterbury, Fordham University, Internet Medieval Sourcebook, <a href="https://sourcebooks.fordham.edu/basis/anselm-curdeus.asp" target="_blank" rel="noopener" data-pos="topic-timeline">Cur Deus Homo (Why God Became Man)</a></li><li><span class="cc-timeline-swatch" style="background:#4A4A8B"></span><strong>Moral influence:</strong> Peter Abelard, The Saint Anselm Journal, <a href="https://www.anselm.edu/sites/default/files/Documents/Institute%20of%20SA%20Studies/4.5.3.1_62McMahon.pdf" target="_blank" rel="noopener" data-pos="topic-timeline">Commentary on Romans, as summarized in Kevin A. McMahon, Penance and Peter Abelard&#x27;s Move Within</a> (2009)</li><li><span class="cc-timeline-swatch" style="background:#2C4A2E"></span><strong>Penal substitution:</strong> John Calvin, Christian Classics Ethereal Library, <a href="https://www.ccel.org/ccel/calvin/institutes.iv.xvii.html" target="_blank" rel="noopener" data-pos="topic-timeline">Institutes of the Christian Religion, Book II, Chapter 16</a></li><li><span class="cc-timeline-swatch" style="background:#8fa48f"></span><strong>Governmental:</strong> Hugo Grotius, Sam Storms, <a href="https://www.samstorms.org/all-articles/post/grotius-and-the-governmental-theory-of-the-atonement" target="_blank" rel="noopener" data-pos="topic-timeline">Defensio fidei catholicae de satisfactione Christi, as explained by Sam Storms</a> (2009)</li><li><span class="cc-timeline-swatch" style="background:#8B4513"></span><strong>Christus Victor:</strong> Gustaf Aulén, The Gospel Coalition, <a href="https://www.thegospelcoalition.org/essay/christus-victor/" target="_blank" rel="noopener" data-pos="topic-timeline">Christus Victor, as described by Robert Kolb</a></li></ul></div>
 <p class="cc-chart-source">Dates are approximate where marked. Cards on Abelard, Grotius and Aulén follow the scholarly and evangelical summaries cited. No view is presented here as the answer. Chart by Christian Curator.</p>
 </figure>
